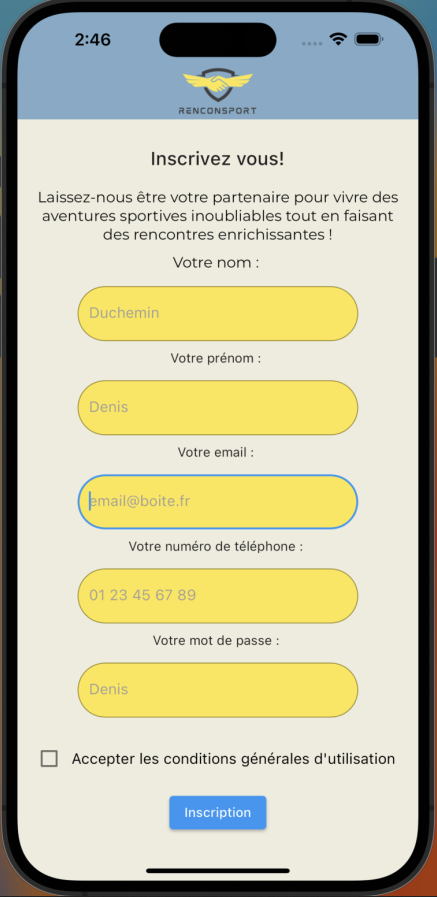
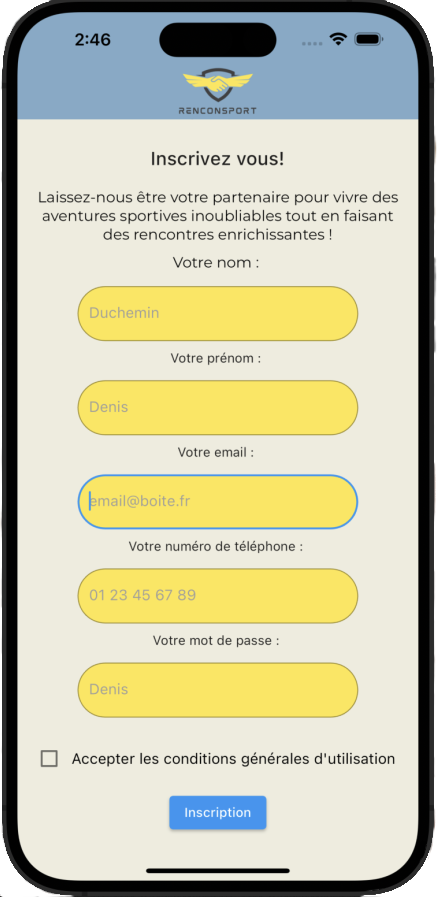
style

Changed region(s): [[0.8032, 0.0, 1.0, 1.0], [0.0, 0.0, 0.1785, 1.0]]

diff --git a/src/lib/Navbar.svelte b/src/lib/Navbar.svelte
@@ -7,7 +7,8 @@
 
 <style>
 nav {
-    background: rgba(127,170,200,1);
+    background: rgb(249,249,249);
+    background: radial-gradient(circle, rgba(249,249,249,1) 22%, rgba(165,206,235,1) 46%, rgba(127,170,200,1) 76%);
     display: flex;
     justify-content: space-between; /* Pour séparer les logos à gauche et à droite */
     align-items: center; /* Pour centrer verticalement les logos */
@@ -22,6 +23,14 @@ nav {
 
 img {
     height: 90%; 
+}
+
+
+
+@media screen and (max-width: 600px) {
+    .logo {
+        margin: auto;
+    }
 }
 
 </style>

diff --git a/src/lib/components/Carousseldenis.svelte b/src/lib/components/Carousseldenis.svelte
@@ -57,10 +57,6 @@
     max-width: 100%;
   }
 
-  .slide img {
-    border-radius: 30px;
-  }
-
   img {
     max-width: 100%;
     height: auto; /* Ajustement automatique de la hauteur */
